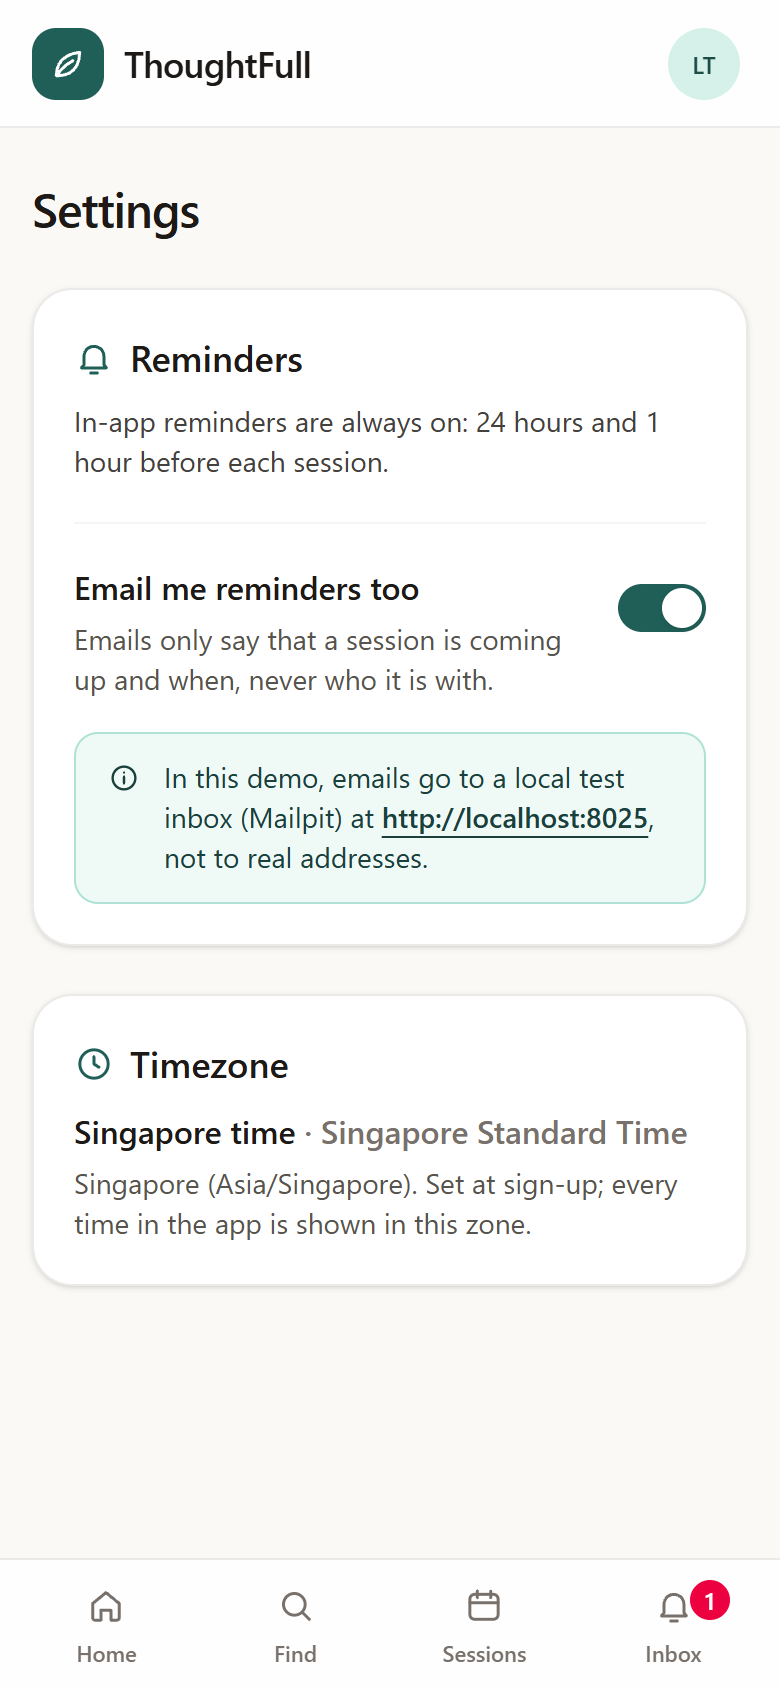
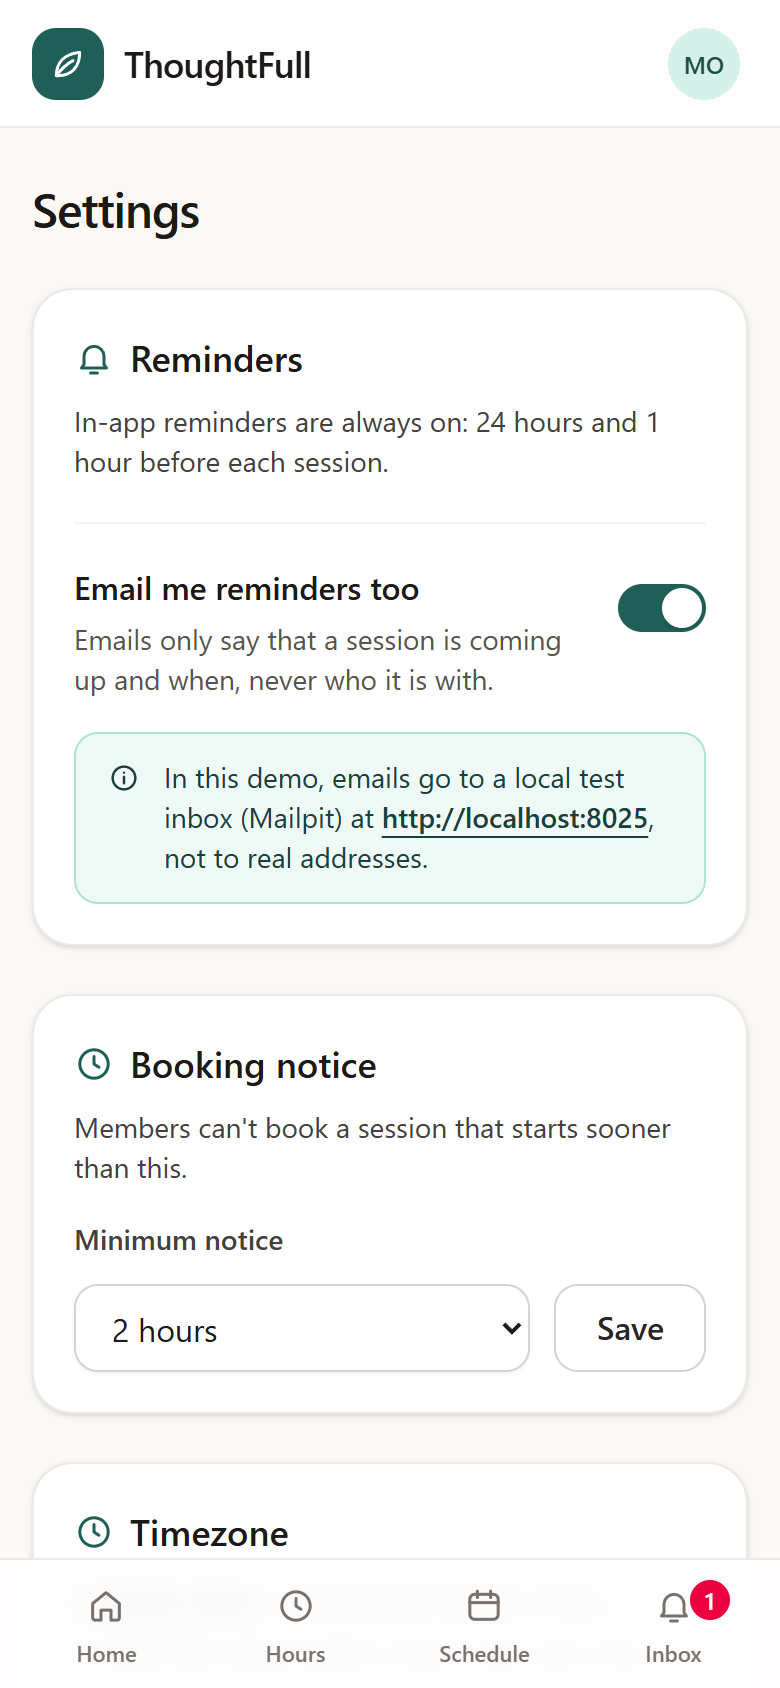
docs: screenshots of the professional home, time off and settings
Adds desktop and phone shots of the professional's home (with upcoming
time off), the Time off card (with the "still booked" warning) and the
Settings page (email reminders and the booking notice).

diff --git a/README.md b/README.md
@@ -138,9 +138,23 @@ These are taken from the running app with the demo accounts, on a 1440 px deskto
 | --- | --- |
 | <img src="docs/screenshots/desktop-availability.png" alt="Working hours, Monday open (Dr. Mira Okafor, London time), desktop" width="520"> | <img src="docs/screenshots/phone-availability.png" alt="Working hours, Monday open (Dr. Mira Okafor, London time), phone" width="200"> |
 
-**Settings (phone)**
+**Professional home with upcoming time off (Dr. Mira Okafor)**
 
-<img src="docs/screenshots/phone-settings.png" alt="Settings, phone" width="200">
+| Desktop | Phone |
+| --- | --- |
+| <img src="docs/screenshots/desktop-pro-dashboard.png" alt="Professional home with upcoming time off (Dr. Mira Okafor), desktop" width="520"> | <img src="docs/screenshots/phone-pro-dashboard.png" alt="Professional home with upcoming time off (Dr. Mira Okafor), phone" width="200"> |
+
+**Time off, with a warning for a day that still has a booking**
+
+| Desktop | Phone |
+| --- | --- |
+| <img src="docs/screenshots/desktop-timeoff.png" alt="Time off, with a warning for a day that still has a booking, desktop" width="520"> | <img src="docs/screenshots/phone-timeoff.png" alt="Time off, with a warning for a day that still has a booking, phone" width="200"> |
+
+**Settings: email reminders and the booking notice**
+
+| Desktop | Phone |
+| --- | --- |
+| <img src="docs/screenshots/desktop-settings.png" alt="Settings: email reminders and the booking notice, desktop" width="520"> | <img src="docs/screenshots/phone-settings.png" alt="Settings: email reminders and the booking notice, phone" width="200"> |
 
 **Reminder email (local Mailpit inbox)**
 
@@ -154,6 +168,7 @@ How the layout adapts:
 - The week calendar keeps all 7 days on a 375 px phone; the day buttons just get narrower.
 - In the working-hours accordion each day's summary moves under its name and the start and end inputs shrink to share one row, so a day still fits on a 375 px screen.
 - I checked that nothing scrolls sideways at 375 px.
+- The time-off form stacks into one column on a phone, and the "still booked" warning wraps inside its badge.
 - Soft motion (fades) is switched off for people who ask their device for reduced motion.
 - Times are always shown in the viewer's own timezone, and the zone is named on the page.
 
